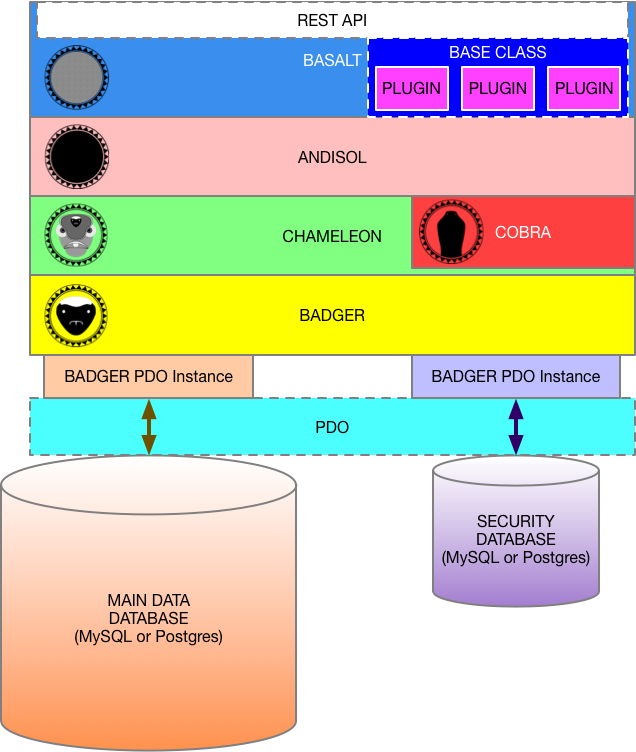
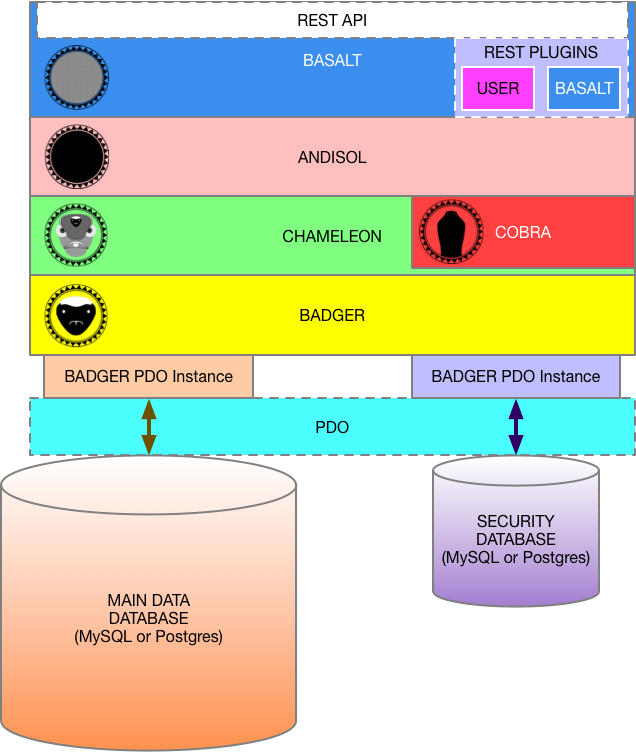
Tweaked the Doxygen file to include the standard plugins. Tweaked the index file to redirect to the correct generated file. Updated the subprojects image for the BASALT README. Added a lot of REST text to the README.

Changed region(s): [[0.5676, 0.0306, 1.0, 0.1835]]

diff --git a/doc/index.html b/doc/index.html
@@ -5,6 +5,6 @@
     <title>Doxygen Document</title>
 </head>
 <body>
-    <script type="text/javascript">window.location.href='html/a00293.html';</script>
+    <script type="text/javascript">window.location.href='html/a00314.html';</script>
 </body>
 </html>

diff --git a/README.md b/README.md
@@ -10,11 +10,116 @@ Part of the Rift Valley Platform
 
 INTRODUCTION
 ============
+BASALT is the REST API and extension framework of the Rift Valley Platform.
+
+EXTENSIONS
+==========
+BASALT allows the creation of "REST Plugins." These are fairly simple PHP executables that are placed in known directories. BASALT correlates these to the plugin parameters in the REST URIs.
+
+REST API
+========
+BASALT expresses true [RESTful](https://restfulapi.net) API access to the Rift Valley BAOBAB server.
+
+The server can be configured to require that all REST access be done as [TLS (SSL/HTTPS)](https://en.wikipedia.org/wiki/Transport_Layer_Security).
+
+REST METHODS
+------------
+BASALT's REST API implements the following [methods](http://www.restapitutorial.com/lessons/httpmethods.html):
+
+- [GET](https://www.w3.org/Protocols/rfc2616/rfc2616-sec9.html#sec9.3)
+
+    This is the classic "show me the money" method. It can be easily expressed in a standard browser URI. Use this to fetch resources (like doing searches). You do not have to be authenticated to use this method.
+    
+- [POST](https://www.w3.org/Protocols/rfc2616/rfc2616-sec9.html#sec9.5)
+
+    This is used to create new resources. You must have an authenticated login to use this.
+    
+- [PUT](https://www.w3.org/Protocols/rfc2616/rfc2616-sec9.html#sec9.6)
+
+    This is used to update/modify resources. It can be used in a fashion like [the PATCH method](https://tools.ietf.org/html/rfc5789), where only the changed portion of a resource is provided. You must have an authenticated login to use this.
+    
+- [DELETE](https://www.w3.org/Protocols/rfc2616/rfc2616-sec9.html#sec9.7)
+
+    This deletes a resource. You must have an authenticated login to use this.
+
+RESPONSE TYPES
+--------------
+BASALT's REST API can return data in the following formats:
+
+- [JSON](https://json.org)
+
+    This is the most common "lightweight" protocol used for access. It is well-supported by most libraries and [ECMAScript](https://en.wikipedia.org/wiki/ECMAScript) implementations, such as [JavaScript](https://www.w3.org/standards/webdesign/script), and other programming languages.
+    
+- [XML](https://www.w3.org/XML/)
+
+    This is a strictly-defined protocol that is common for a lot of semantic implementations. XML output exactly correlates to JSON. Additionally, all XML output must validate to a published schema.
+    
+- [XML XSD (Schema)](https://www.w3.org/XML/Schema)
+
+    This is the validation schema for the XML output. Each plugin must publish a schema to validate its XML against.
+    
+- Simple String
+    This is only returned by the login operation. The API key is returned as a simple UTF-8 string.
+    
+AUTHENTICATION
+--------------
+In order to log into the BAOBAB server, you must call it once with a basic username/password combination, in a simple GET call. The server can be configured to require that this always be [TLS (SSL/HTTPS)](https://en.wikipedia.org/wiki/Transport_Layer_Security).
+
+Once you have successfully logged in, the server will respond with a simple text resonse, containing a timed API key. You will then place this API key in BOTH the user and password fields of the [HTTP authorization header](https://www.w3.org/Protocols/rfc2616/rfc2616-sec14.html#sec14.8) of subsequent calls.
+
+Example in [a PHP cURL](http://php.net/manual/en/function.curl-setopt.php) implementation (where "$api_key" contains the string returned from the login call):
+
+    curl_setopt($curl, CURLOPT_USERPWD, "$api_key:$api_key");
+
+The API key is timed with a fixed clock. The time is determined by the server, but the default is 1 hour (60 minutes) for standard logins, and 10 minutes for the "God" login (the superuser). The clock is not reset during use, so it is an absolute time limit. Once you log in, the clock starts ticking, whether or not you access the server afterwards.
+
+REST API URI STRUCTURE
+----------------------
+When you call the REST API, you will do so in the standard fashion, where you define the method ([HTTP 1.1 header](https://www.w3.org/Protocols/rfc2616/rfc2616-sec9.html)), and specify the resource in a URI, which can include query data.
+    
+**Initial Login Call:**
+
+    http[s]://{SERVER URL}/login?login_id={LOGIN ID STRING}&password={PASSWORD STRING}
+
+The {SERVER URL} is the URL path that specifies the BAOBAB server REST entrypoint (like "`example.com/rest_api/baobab/entrypoint.php`").
+
+In this instance, you directly call the REST entrypoint, specifying only "`login`" (which also means that you can't create a plugin named "login").
+The query parameters are:
+
+- `login_id`
+
+    This is the user's login ID (a simple string)
+    
+- `password`
+
+    This is the cleartext password for that login.
+    
+This is only called once, and cannot be combined with any other commands. The only operation permitted is a simple login.
+
+The response will be a simple string. This will be a 64-character random token that should be applied in the authentication header of subsequent calls.
+    
+**Standard REST Calls:**
+
+    http[s]://{SERVER URL}/{RESPONSE TYPE}/{PLUGIN}/[{COMMAND[S]}][?][{QUERY PARAMETER NAME}[={QUERY PARAMETER VALUE}]]
+
+- `{RESPONSE TYPE}`
+
+    This is "xml", "json" or "xsd". If it is "xsd," then commands and query parameters will be ignored.
+    
+- `{PLUGIN}`
+
+    This is the all-lowercase name of the BASALT Extension plugin.
+    There is a BASALT "virtual plugin" called "baseline". This will return a list of available plugins, if called directly. (Example: `http[s]://{SERVER URL}/{RESPONSE TYPE}/baseline/`)
+    
+- `{COMMAND[S]}`
+
+    This represents a single command (or a series of commads, which are expressed as "`command1/command2/command3/`" etc.) for the plugin.
+    
+If you will be providing query parameters to the REST call, then these are attached after the question mark.
+`{RESPONSE TYPE}` and `{PLUGIN}` are required. The other elements are optional, and plugin-dependent. Each plugin will define its own REST query structure that is parsed after the `{PLUGIN}`.
 
 SUBPROJECTS
 ===========
-BASALT is the extension framework of the Rift Valley Platform. It implements the REST API, as well as a plugin extension mechanism.
-
 ![BASALT Diagram](images/BASALTLayers.png)
 
 \ref ANDISOL is the "public face" of the lowest levels of the Rift Valley Platform. It encapsulates the model (database or server connections), and provides an object-based, functional model to the implementation layers.
